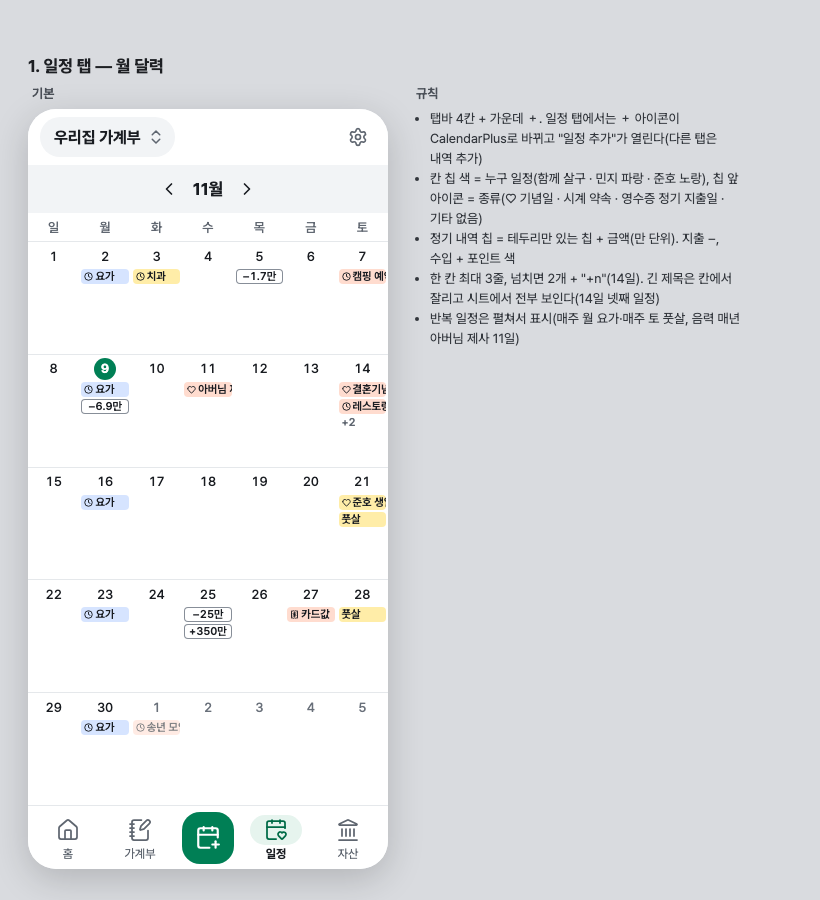
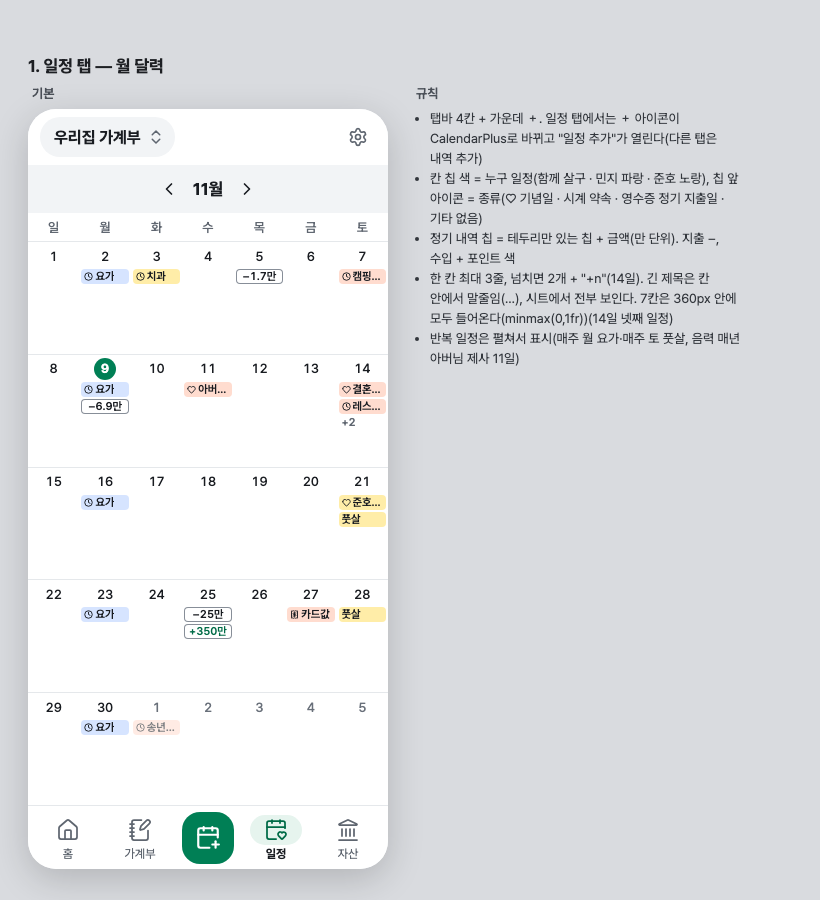
BANB-41 일정 탭 토요일 칸 잘림 수정: 7칸 minmax(0,1fr) + 칩 말줄임, design.md 5.24 규칙 추가

diff --git a/docs/screens/calendar/calendar.html b/docs/screens/calendar/calendar.html
@@ -48,8 +48,8 @@ svg.lucide { width:20px; height:20px; stroke-width:2; flex:none; }
 .plus svg { width:26px; height:26px; }
 /* 일정 탭 달력 (5.24) */
 .cal { background:var(--color-surface); margin:0 var(--card-gutter); border-radius:var(--card-radius); position:absolute; top:48px; left:0; right:0; bottom:0; display:flex; flex-direction:column; }
-.wk { display:grid; grid-template-columns:repeat(7,1fr); height:28px; align-items:center; text-align:center; font-size:13px; font-weight:500; color:var(--color-text-sub); }
-.grid { flex:1; display:grid; grid-template-columns:repeat(7,1fr); grid-auto-rows:1fr; }
+.wk { display:grid; grid-template-columns:repeat(7,minmax(0,1fr)); height:28px; align-items:center; text-align:center; font-size:13px; font-weight:500; color:var(--color-text-sub); }
+.grid { flex:1; display:grid; grid-template-columns:repeat(7,minmax(0,1fr)); grid-auto-rows:1fr; }
 .cell { border-top:1px solid var(--color-border); padding:3px 2px 0; min-width:0; overflow:hidden; }
 .cell.sel { background:var(--color-primary-soft); }
 .dn { height:22px; display:flex; justify-content:center; align-items:center; font-size:13px; font-weight:500; font-variant-numeric:tabular-nums; margin-bottom:2px; }
@@ -57,6 +57,7 @@ svg.lucide { width:20px; height:20px; stroke-width:2; flex:none; }
 .cell.today .dn i { background:var(--color-primary); color:var(--color-on-primary); font-weight:700; }
 .cell.out { color:var(--color-text-weak); } .cell.out .chip { opacity:.55; }
 .chip { height:15px; border-radius:4px; font-size:11px; line-height:15px; font-weight:600; padding:0 3px; margin-bottom:2px; white-space:nowrap; overflow:hidden; display:flex; align-items:center; gap:2px; color:var(--color-text); }
+.chip .tt { min-width:0; overflow:hidden; text-overflow:ellipsis; white-space:nowrap; }
 .chip svg { width:9px; height:9px; stroke-width:2.5; flex:none; }
 .chip.rec.acc { color:var(--color-primary-strong); }
 .chip.rec { background:var(--color-surface); box-shadow:inset 0 0 0 1px var(--color-border-strong); font-variant-numeric:tabular-nums; justify-content:center; }
@@ -180,7 +181,7 @@ const EV = {
   16:[['1','요가','appointment']], 21:[['2','준호 생일','anniversary'],['2','풋살','other']], 23:[['1','요가','appointment']],
   25:[['rec','−25만'],['rec','+350만',1]], 27:[['t','카드값','bill_day']], 28:[['2','풋살','other']], 30:[['1','요가','appointment']],
 };
-const chip = e => e[0]==='rec' ? `<div class="chip rec${e[2]?' acc':''}">${e[1]}</div>` : `<div class="chip e-${e[0]}">${KIND[e[2]]?ic(KIND[e[2]]):''}${e[1]}</div>`;
+const chip = e => e[0]==='rec' ? `<div class="chip rec${e[2]?' acc':''}">${e[1]}</div>` : `<div class="chip e-${e[0]}">${KIND[e[2]]?ic(KIND[e[2]]):''}<span class="tt">${e[1]}</span></div>`;
 const cellHtml = (d, out, sel) => {
   const evs = out ? (d===1?[['t','송년 모임','appointment']]:[]) : (EV[d]||[]);
   const shown = evs.length > 3 ? evs.slice(0,2) : evs;
@@ -331,7 +332,7 @@ const s11b = calTab(12, emptyDay, true).replace('style="top:110px"','style="top:
 const s12 = calTab(0);
 
 const SCREENS = [
-  ['cal','1. 일정 탭 — 월 달력', [[s1,'기본']], ['탭바 4칸 + 가운데 ＋. 일정 탭에서는 ＋ 아이콘이 CalendarPlus로 바뀌고 "일정 추가"가 열린다(다른 탭은 내역 추가)', '칸 칩 색 = 누구 일정(함께 살구 · 민지 파랑 · 준호 노랑), 칩 앞 아이콘 = 종류(♡ 기념일 · 시계 약속 · 영수증 정기 지출일 · 기타 없음)', '정기 내역 칩 = 테두리만 있는 칩 + 금액(만 단위). 지출 −, 수입 + 포인트 색', '한 칸 최대 3줄, 넘치면 2개 + "+n"(14일). 긴 제목은 칸에서 잘리고 시트에서 전부 보인다(14일 넷째 일정)', '반복 일정은 펼쳐서 표시(매주 월 요가·매주 토 풋살, 음력 매년 아버님 제사 11일)']],
+  ['cal','1. 일정 탭 — 월 달력', [[s1,'기본']], ['탭바 4칸 + 가운데 ＋. 일정 탭에서는 ＋ 아이콘이 CalendarPlus로 바뀌고 "일정 추가"가 열린다(다른 탭은 내역 추가)', '칸 칩 색 = 누구 일정(함께 살구 · 민지 파랑 · 준호 노랑), 칩 앞 아이콘 = 종류(♡ 기념일 · 시계 약속 · 영수증 정기 지출일 · 기타 없음)', '정기 내역 칩 = 테두리만 있는 칩 + 금액(만 단위). 지출 −, 수입 + 포인트 색', '한 칸 최대 3줄, 넘치면 2개 + "+n"(14일). 긴 제목은 칸 안에서 말줄임(…), 시트에서 전부 보인다. 7칸은 360px 안에 모두 들어온다(minmax(0,1fr))(14일 넷째 일정)', '반복 일정은 펼쳐서 표시(매주 월 요가·매주 토 풋살, 음력 매년 아버님 제사 11일)']],
   ['day','2. 날짜 누르면 — 그날 목록 시트', [[s2,'14일 선택']], ['고른 날 칸 = primary-soft 바탕', '행: 색 원(누구) 안 아이콘(종류) / 제목(20자까지 줄바꿈, 자르지 않음) / "누구 · 시각 · 장소" 또는 반복', '누구는 이름 글자로도 쓴다 → 색만으로 구분하지 않음', '홈에 고정한 기념일은 오른쪽 배지 📌 D-5', '아래 "이 날 일정 추가"(날짜가 채워진 채 열림)']],
   ['form','3. 일정 추가·수정 + 음력 날짜', [[s3,'추가 (기념일·음력)'],[s4,'날짜 시트 (양력|음력)']], ['제목 1~20자 글자 수 표시 · 종류 칩 4개(아이콘) · 누구 칩(색 견본 + 이름)', '날짜: 기념일이면 날짜 시트에 [양력 | 음력]. 음력을 고르면 반복이 "매년 (음력)"으로 정해지고 올해 양력 날짜를 함께 보여 준다', '반복 · 종일/시각은 한 줄에 두 칸. 반복 선택지: 안 함 / 매주 (토요일) / 매월 (14일) / 매년 (11월 14일) / 매년 (음력)', '"홈에 D-day 고정"은 기념일일 때만, 가계부당 2개. 2개 찼으면 꺼진 채 비활성 + "이미 2개를 고정했어요"', '"함께한 날" 스위치는 없음 → 설정 › 함께한 날(8번)', '수정 화면: 제목 "일정 수정", 아래 [삭제(위험 외곽)] [저장]. 반복 일정은 1건 저장이라 고치면 모든 날짜에 반영 — 삭제 확인 창 "모든 날짜의 일정이 지워져요"']],
   ['home','4. 홈 맨 위 — 함께한 날 카드 + 정기 내역 제안', [[s5,'홈'],[s6,'카드 상태']], ['카드 3줄: ① ♡ 함께한 지 N일째예요 ②③ 기념일 D-day(고정한 것 먼저, 없으면 가까운 기념일 순)', '당일은 "오늘은 ○○이에요" + D-day 포인트 색', '함께한 날·다가오는 기념일 둘 다 없으면 카드 숨김. 약속 줄은 넣지 않음(일정 탭에서)', '카드 전체가 버튼 → 일정 탭', '정기 내역 제안 줄: 기록할 정기 내역이 있을 때만 카드 아래 한 줄. X = 오늘은 그만(내일 다시)', '월 이동 줄은 그 아래로 내려간다(아래 두 카드만 월에 걸리기 때문)']],

diff --git a/docs/screens/calendar/README.md b/docs/screens/calendar/README.md
@@ -35,7 +35,7 @@
 | "오늘 정기 내역 n건" 제안 | 반영 (홈 한 줄 + 시트) | `cal-4`, `cal-5` |
 | 상태: 일정 없음 | 반영 | `cal-7` |
 | 상태: 칩 넘침 | 반영 (14일 "+2") | `cal-1` |
-| 상태: 20자 제목 | 반영 (칸에서 잘림, 시트에서 줄바꿈) | `cal-1`, `cal-2` |
+| 상태: 20자 제목 | 반영 (칸 안에서 말줄임, 시트에서 줄바꿈) | `cal-1`, `cal-2` |
 | 상태: 음력 반복 표시 | 반영 (날짜 행·날짜 시트·시트 보조 줄) | `cal-3` |
 | 보강: 함께한 날 = 설정에서 지정 | 반영 (설정 행 + 시트), 일정 추가의 "함께한 날" 스위치 없음 | `cal-6` |
 | 다크 1장 | 반영 (클린 다크 일정 탭) | `cal-8` |
